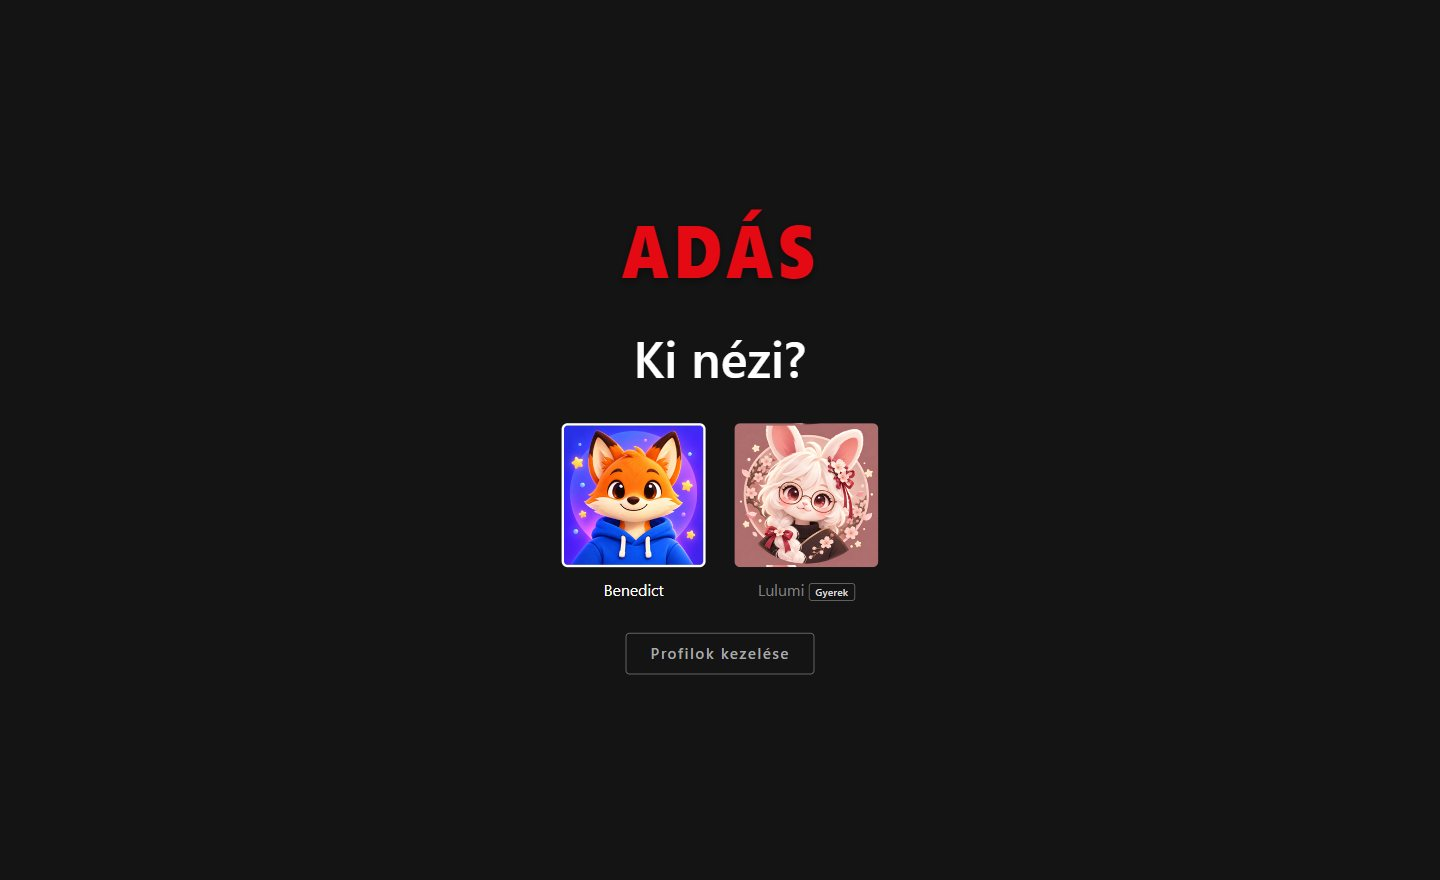
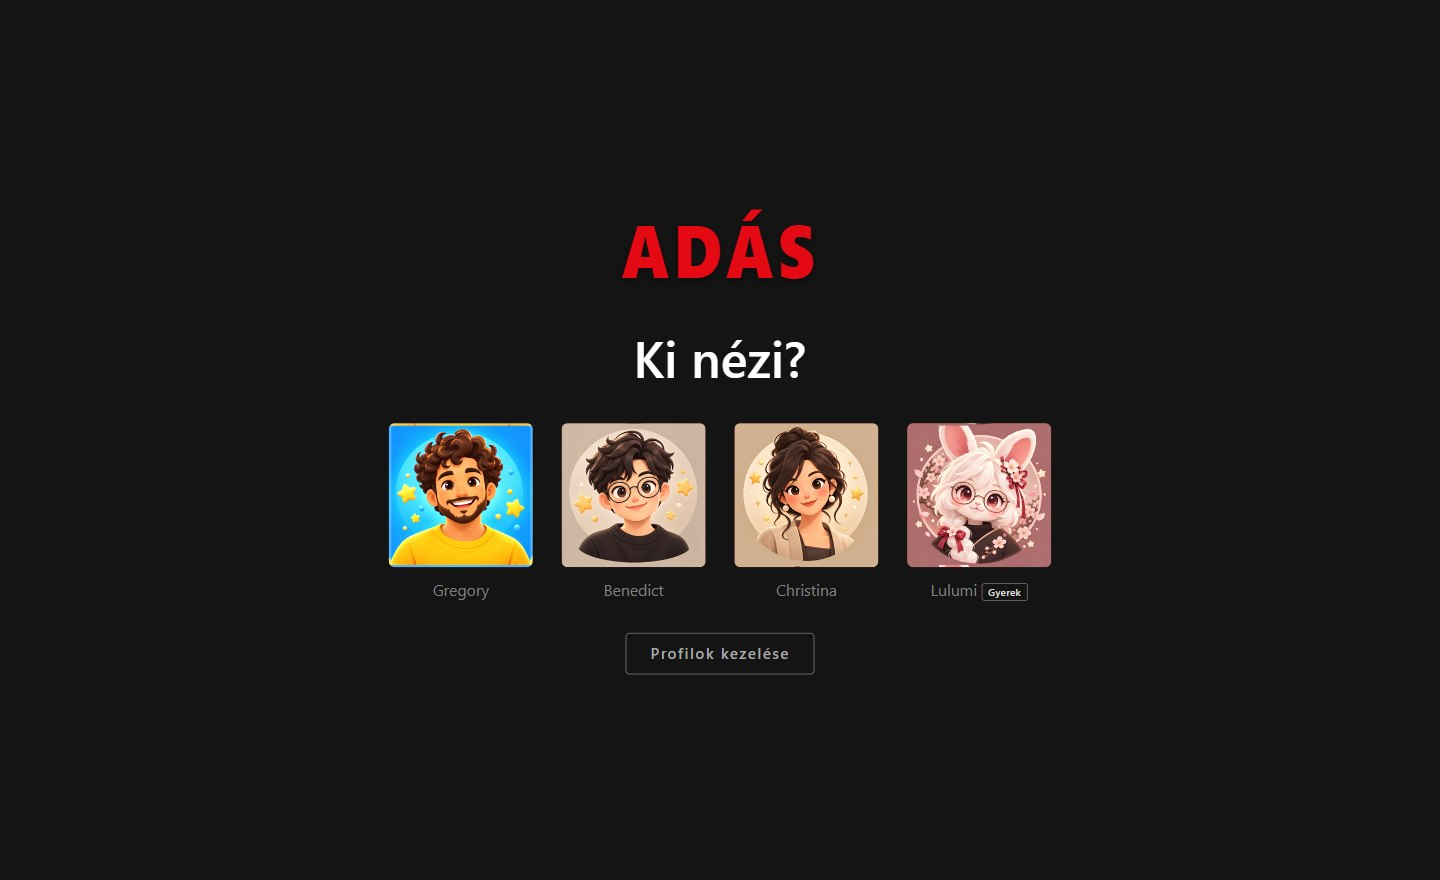
Weboldal: Kontroller felület, 14 elrendezés, háttérkép, csendes frissítés; profilválasztó Gregory / Benedict / Christina / Lulumi; a profilválasztón nincs gombsúgó

Changed region(s): [[0.25, 0.4602, 0.75, 0.675]]

diff --git a/site/hu/index.html b/site/hu/index.html
@@ -124,8 +124,13 @@
       </article>
       <article class="feat reveal">
         <div class="ico"><svg viewBox="0 0 24 24" aria-hidden="true"><rect x="3" y="3" width="8" height="8" rx="1.5"/><rect x="13" y="3" width="8" height="5" rx="1.5"/><rect x="13" y="10" width="8" height="11" rx="1.5"/><rect x="3" y="13" width="8" height="8" rx="1.5"/></svg></div>
-        <h3>13 felület, saját menü</h3>
-        <p>Válaszd ki, milyen legyen az alkalmazás elrendezése – mozi, kirakat, polc, csempék, könyvtár, fókusz, asztal és a többi –, mindegyik saját főoldallal, menüvel és lejátszóval. Amit nem használsz, kikapcsolhatod: be sem töltődik.</p>
+        <h3>14 felület, saját menü</h3>
+        <p>Válaszd ki, milyen legyen az alkalmazás elrendezése – mozi, kirakat, polc, csempék, könyvtár, fókusz, asztal és a többi –, mindegyik saját főoldallal, menüvel és lejátszóval, egy felületen belül minden fül egységesen. A Főoldal egy képernyőre fér; a konzolos felületeken háttérképet is választhatsz. Amit nem használsz, kikapcsolhatod: be sem töltődik.</p>
+      </article>
+      <article class="feat reveal">
+        <div class="ico"><svg viewBox="0 0 24 24" aria-hidden="true"><path d="M6 9h12a4 4 0 0 1 4 4v1.5a2.5 2.5 0 0 1-4.6 1.3L16 14H8l-1.4 1.8A2.5 2.5 0 0 1 2 14.5V13a4 4 0 0 1 4-4Z"/><path d="M7 11v2M6 12h2"/><circle cx="16" cy="11.5" r=".6" fill="currentColor"/><circle cx="17.8" cy="13" r=".6" fill="currentColor"/></svg></div>
+        <h3>Kontrollerrel a kanapéról</h3>
+        <p>A Kontroller felület nagy, lapozható részekkel és csempékkel, a gombok súgójával – játékgépre, HTPC-re telepítve egér és billentyűzet nélkül is kényelmes. Frissítéskor kérheted, hogy a Windows-telepítő kérdések nélkül fusson.</p>
       </article>
     </div>
   </div>
@@ -148,7 +153,8 @@
         <button class="tab" role="tab" aria-selected="false" aria-controls="tour-panel" tabindex="-1" data-src="../img/hu/radio.jpg" data-alt="Rádió oldal adókkal és műfajokkal"><b>Rádió</b><small>Adók országonként és műfajonként, kedvencek, műsorújság és felvételek.</small></button>
         <button class="tab" role="tab" aria-selected="false" aria-controls="tour-panel" tabindex="-1" data-src="../img/hu/sport.jpg" data-alt="Sport oldal élő eredményekkel, közelgő meccsekkel és tabellával"><b>Sport</b><small>Élő eredmények, közelgő események, sport most a tévében és tabellák.</small></button>
         <button class="tab" role="tab" aria-selected="false" aria-controls="tour-panel" tabindex="-1" data-src="../img/hu/podcast.png" data-alt="Podcast oldal: folytatás, lejátszási sor és feliratkozások"><b>Podcastok</b><small>Folytatás, lejátszási sor, új epizódok, letöltések és felfedezés.</small></button>
-        <button class="tab" role="tab" aria-selected="false" aria-controls="tour-panel" tabindex="-1" data-src="../img/hu/layout-tiles.png" data-alt="A Csempék elrendezés az Uchūreki témával: ikonsáv és nagy témakör-csempék"><b>Felületek</b><small>13 elrendezés saját főoldallal, menüvel és lejátszóval – itt: Csempék, Uchūreki témával.</small></button>
+        <button class="tab" role="tab" aria-selected="false" aria-controls="tour-panel" tabindex="-1" data-src="../img/hu/layout-tiles.png" data-alt="A Csempék elrendezés az Uchūreki témával: ikonsáv és nagy témakör-csempék"><b>Felületek</b><small>14 elrendezés saját főoldallal, menüvel és lejátszóval – itt: Csempék, Uchūreki témával.</small></button>
+        <button class="tab" role="tab" aria-selected="false" aria-controls="tour-panel" tabindex="-1" data-src="../img/hu/layout-console.jpg" data-alt="A Kontroller elrendezés: lapozható részek, nagy csatornacsempék, alul a kontroller gombjainak súgója, hullámos háttérképpel"><b>Kontroller</b><small>Nagy, lapozható részek és csempék, a gombok súgójával – kanapéról, kontrollerrel.</small></button>
         <button class="tab" role="tab" aria-selected="false" aria-controls="tour-panel" tabindex="-1" data-src="../img/hu/profiles.jpg" data-alt="Ki nézi? profilválasztó"><b>Profilok</b><small>Ki nézi? Mindenkinek saját kedvencek, előzmények és téma.</small></button>
       </div>
       <figure class="frame" id="tour-panel" role="tabpanel" aria-live="polite">

diff --git a/site/index.html b/site/index.html
@@ -124,8 +124,13 @@
       </article>
       <article class="feat reveal">
         <div class="ico"><svg viewBox="0 0 24 24" aria-hidden="true"><rect x="3" y="3" width="8" height="8" rx="1.5"/><rect x="13" y="3" width="8" height="5" rx="1.5"/><rect x="13" y="10" width="8" height="11" rx="1.5"/><rect x="3" y="13" width="8" height="8" rx="1.5"/></svg></div>
-        <h3>13 layouts, your menu</h3>
-        <p>Pick how the app is laid out – cinema, showcase, shelf, tiles, library, focus, desktop and more – each with its own home, menu and player style. Turn off what you don't use: it isn't loaded at all.</p>
+        <h3>14 layouts, your menu</h3>
+        <p>Pick how the app is laid out – cinema, showcase, shelf, tiles, library, focus, desktop and more – each with its own home, menu and player style, with every tab consistent within a layout. Home fits on one screen, and the console-style layouts can have a background picture. Turn off what you don't use: it isn't loaded at all.</p>
+      </article>
+      <article class="feat reveal">
+        <div class="ico"><svg viewBox="0 0 24 24" aria-hidden="true"><path d="M6 9h12a4 4 0 0 1 4 4v1.5a2.5 2.5 0 0 1-4.6 1.3L16 14H8l-1.4 1.8A2.5 2.5 0 0 1 2 14.5V13a4 4 0 0 1 4-4Z"/><path d="M7 11v2M6 12h2"/><circle cx="16" cy="11.5" r=".6" fill="currentColor"/><circle cx="17.8" cy="13" r=".6" fill="currentColor"/></svg></div>
+        <h3>From the sofa, with a controller</h3>
+        <p>The Controller layout has large sections and tiles you page through, with a guide to the buttons – comfortable without a mouse or keyboard on a gaming machine or HTPC. Updates can run the Windows installer without any questions.</p>
       </article>
     </div>
   </div>
@@ -148,7 +153,8 @@
         <button class="tab" role="tab" aria-selected="false" aria-controls="tour-panel" tabindex="-1" data-src="img/radio.jpg" data-alt="Radio page with stations and genres"><b>Radio</b><small>Stations by country and genre, favourites, schedule and recordings.</small></button>
         <button class="tab" role="tab" aria-selected="false" aria-controls="tour-panel" tabindex="-1" data-src="img/sport.jpg" data-alt="Sport page with live scores, upcoming matches and a league table"><b>Sport</b><small>Live now, coming up, sport on TV right now, and league tables.</small></button>
         <button class="tab" role="tab" aria-selected="false" aria-controls="tour-panel" tabindex="-1" data-src="img/podcast.png" data-alt="Podcasts page with continue listening, the play queue and subscriptions"><b>Podcasts</b><small>Continue listening, your queue, new episodes, downloads and discovery.</small></button>
-        <button class="tab" role="tab" aria-selected="false" aria-controls="tour-panel" tabindex="-1" data-src="img/layout-tiles.png" data-alt="The Tiles layout with the Uchūreki theme: an icon rail and large topic tiles"><b>Layouts</b><small>13 layouts with their own home, menu and player – here: Tiles with Uchūreki.</small></button>
+        <button class="tab" role="tab" aria-selected="false" aria-controls="tour-panel" tabindex="-1" data-src="img/layout-tiles.png" data-alt="The Tiles layout with the Uchūreki theme: an icon rail and large topic tiles"><b>Layouts</b><small>14 layouts with their own home, menu and player – here: Tiles with Uchūreki.</small></button>
+        <button class="tab" role="tab" aria-selected="false" aria-controls="tour-panel" tabindex="-1" data-src="img/layout-console.jpg" data-alt="The Controller layout: sections to page through, large channel tiles and a controller button guide at the bottom, with a wave background"><b>Controller</b><small>Large sections and tiles to page through, with a button guide – from the sofa, with a controller.</small></button>
         <button class="tab" role="tab" aria-selected="false" aria-controls="tour-panel" tabindex="-1" data-src="img/profiles.jpg" data-alt="Who's watching? profile picker"><b>Profiles</b><small>Who's watching? Everyone gets their own favourites, history and theme.</small></button>
       </div>
       <figure class="frame" id="tour-panel" role="tabpanel" aria-live="polite">

diff --git a/src/layouts.css b/src/layouts.css
@@ -1082,3 +1082,4 @@ body[data-layout="ribbon"] .frame-head .page-head { justify-content: center; }
 body[data-layout="focus"] .frame-head, body[data-layout="console"] .frame-head { padding: 14px 18px; border-radius: calc(var(--radius) + 6px); background: rgba(127, 127, 127, 0.1); border: 1px solid var(--line); }
 /* oldalsávos felületek (Könyvtár, Részletes, Gyűjtemény): panel a sáv mellett */
 body:is([data-layout="library"], [data-layout="detail"], [data-layout="unified"]) .frame-head { padding: 16px 20px; border-radius: var(--radius); background: var(--bg-2); border: 1px solid var(--line); }
+body:has(#profiles:not([hidden])) #pad-hints { display: none !important; } /* (a profilválasztón nincs gombsúgó) */
